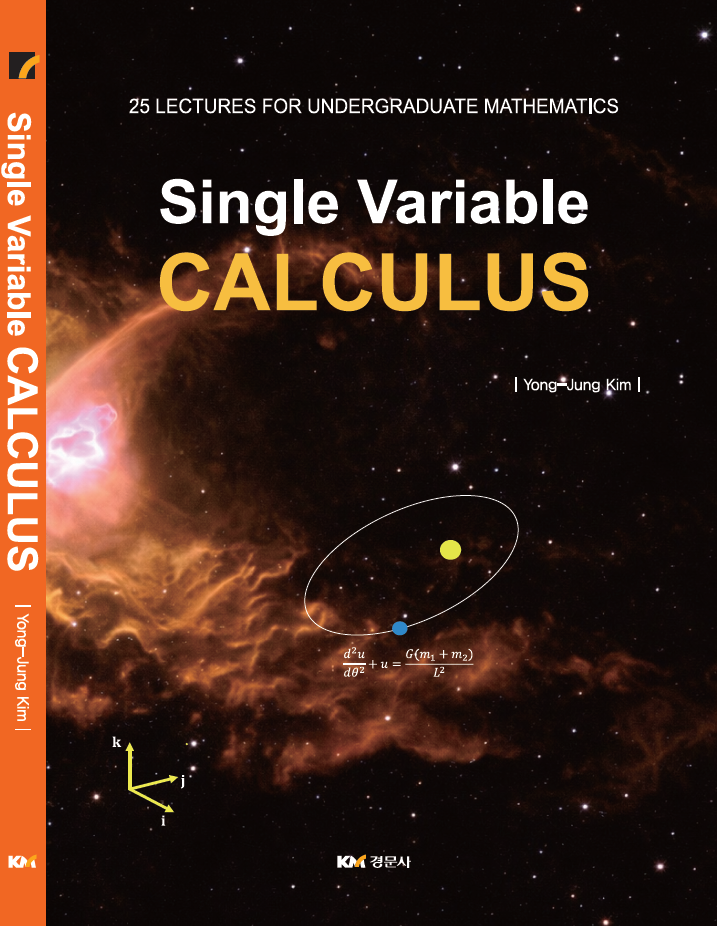
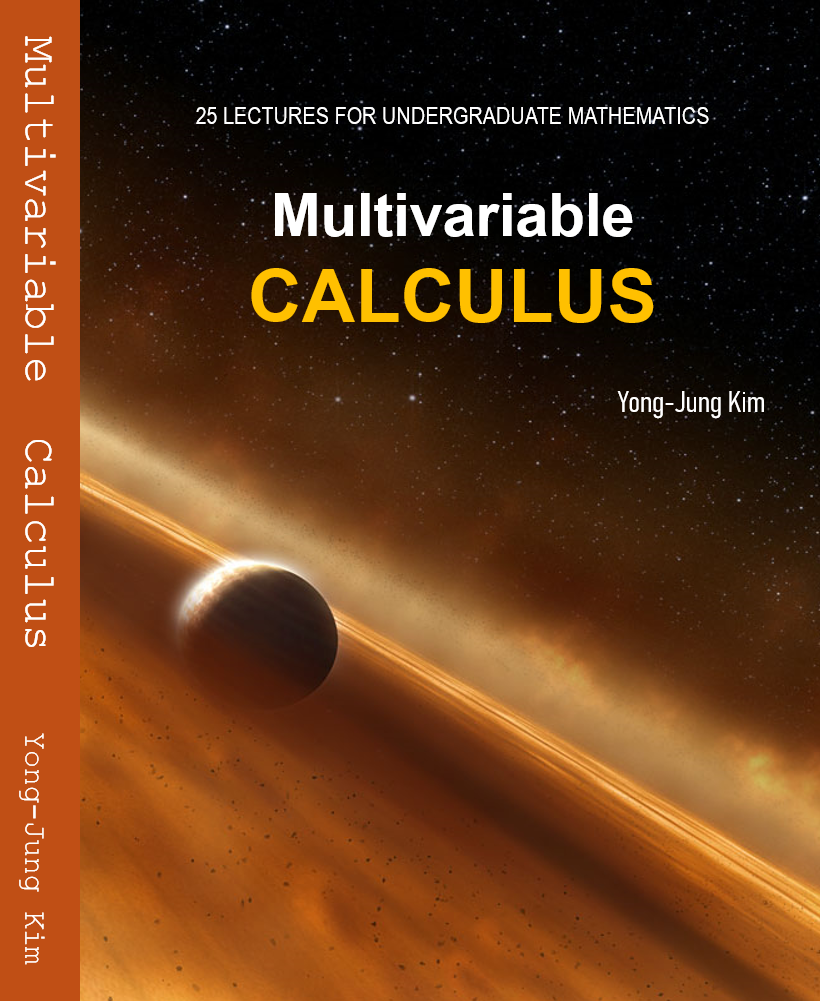
Add files via upload

diff --git a/mathematics/math002.html b/mathematics/math002.html
@@ -212,16 +212,16 @@ html, body {
   <!-- 상단 -->
   <section class="book-top">
     <div class="cover-panel">
-      <img src="math001.png" alt="Single Variable Calculus 표지">
+      <img src="math002.png" alt="Single Variable Calculus 표지">
     </div>
 
     <div class="book-info">
-      <h1>Single Variable Calculus</h1>
+      <h1>Multivariable Calculus</h1>
 
       <div class="info-grid">
         <div class="info-card">
           <div class="label">Pages</div>
-          <div class="value">344 pages</div>
+          <div class="value"> pages</div>
         </div>
 
         <div class="info-card">
@@ -231,7 +231,7 @@ html, body {
 
         <div class="info-card">
           <div class="label">Publisher / ISBN</div>
-          <div class="value">경문사 / 979-11-6073-822-3</div>
+          <div class="value">경문사 /  </div>
         </div>
 
         <div class="info-card">
@@ -253,7 +253,7 @@ html, body {
       <div class="button-row">
         <a class="btn" href="https://product.kyobobook.co.kr/detail/S000219311363" target="_blank">교보문고</a>
         <a class="btn" href="https://www.kyungmoon.com/shop/item.php?it_id=1771822190" target="_blank">경문사</a>
-        <a class="btn outline" href="math001.pdf" target="_blank">샘플 PDF</a>       	
+        <a class="btn outline" href="math002.pdf" target="_blank">샘플 PDF</a>       	
         <a class="btn" href="index.html" target="_parent">Math Series</a>
       </div>
     </div>
@@ -264,10 +264,8 @@ html, body {
     <div class="section">
       <h2>간단한 소개</h2>
       <p>
-        이 책은 두 학기에 걸쳐 진행되는 미적분학 과목의 첫 학기 교재이다.
-        함수의 극한, 미분, 적분 등 기본 개념을 설명하고,
-        벡터값 함수와 극좌표계, 매개변수 표현을 포함한다.
-        후반부에서는 수열과 급수를 이용한 함수의 근사와 무한급수를 다룬다.
+        이 책은 두 학기에 걸쳐 진행되는 미적분학 과목의 두번째 학기 교재이다.
+        다변수 함수의 미분과 적분, 변수 변환을 행렬을 사용해 정의하고 계산한다. 그 후 선적분과 면적분 개념을 이용해 Gauss 정리와 Stokes 정리를 얻고, 마지막 종착점은 Maxwell 방정식이다. Maxwell 방정식에서 어떻게 상대성이론이 탄생하는지를 살펴보면서 미적분학 교육과정이 끝난다.
       </p>
     </div>
 
@@ -277,7 +275,7 @@ html, body {
         <p>
 미적분학은 수학이다. 그러나 그 본질은 수학에 있지 않고 과학에 있다. 미적분학은 과학을 다루는 언어이며, 그 언어는 여러 가지 수학적 개념으로 이루어져 있고, 그 개념들은 과학적 현상을 분석하기 위해 만들어졌다. 이것이 미적분학이 이공계 학생들에게 졸업에 필요한 필수 과목인 이유이며, 경제학을 포함한 많은 인문계열 학생들에게도 꼭 필요한 필수 과목인 이유이다. 따라서 미적분학 교육의 핵심은 그 개념을 이해하고, 그 개념을 사용하며, 그 개념으로 각자의 문제를 분석하는 능력을 기르는 데 있다.
 </p><p>
-미적분학 1(Single Variable Calculus)에서는 일변수 함수를 다룬다. 어떤 사람들에게는 이 미적분학 책에 과학적 내용이 많아서 당혹스러울 수도 있을 것이다. 그러나 미적분학이 과학의 언어라면, 과학이 없는 미적분학에서 무엇을 배울 것인가? 뉴턴이 케플러 법칙을 수학적으로 설명하기 위하여 만든 도구가 미적분학의 시작이 되었고, 그것이 이 책 전반부의 핵심 주제이다. 극한, 미분, 적분, 관성 좌표계, 극좌표계, 변수 변환, 미분 방정식은 이 과학적 목표를 달성하기 위한 수학적 요소들이다. 미적분학은 뉴턴 이후에도 많은 발전을 이루어 왔다. 이 책의 후반부에서는 미분과 적분의 기법을 학습한 후, 수열과 급수를 이용한 근사 방법을 다룬다. 특히 공학에서 널리 사용되는 근사 기법의 기초가 되는 Taylor 급수와 다항식 근사를 학습한다.
+미적분학 2(Multivariable Calculus)는 다변수 함수를 다룬다. 다변수 함수는 고등학교 미적분학과 대학 미적분학을 구분 짓는 중요한 차별점이다. 다변수 함수의 미분과 적분, 변수 변환을 행렬을 사용해 정의하고 계산한다. 그 후 선적분과 면적분 개념을 이용해 Gauss 정리와 Stokes 정리를 얻고, 마지막 종착점은 Maxwell 방정식이다. Maxwell 방정식에서 어떻게 상대성이론이 탄생하는지를 살펴보면서 미적분학 교육과정이 끝난다.
 </p><p>
 언어는 소통의 수단인 동시에 사고의 수단이다. 인간이 깊이 있는 생각을 할 수 있는 것은 언어가 있기 때문이다. 미적분학은 과학을 깊이 있게 생각하는 데 쓰이는 언어이다. 그러나 외국어 단어를 많이 알고 있다고 해도 정작 그 언어로 말을 하나도 못 할 수도 있듯이, 미적분 개념도 충분한 연습을 통하지 않고서는 사고의 수단으로 사용할 수 없다. 책의 설명을 이해하려는 노력도 좋은 연습이지만, 스스로 익힌 개념으로 질문하고 답하려는 과정은 더 좋은 연습이 된다. 이 책에서는 학생들이 주도적으로 생각할 수 있도록 적절한 질문을 제시하려고 노력하였다. 때로는 구체적인 설명보다 힌트와 동기를 부여하는 질문이 더 효과적일 수 있기 때문이다.
 </p><p>

diff --git a/mathematics/index.html b/mathematics/index.html
@@ -183,15 +183,15 @@
         <a href="../index.html"><img src="../assets/images/dotcomlogo.png" alt="25 Lectures 로고"></a>
       </div>
       <nav class="nav">
-        <a href="../about/index.html">소개</a>
+        <a href="../underconstruction.html">소개</a>
         <a href="../mathematics/index.html">대학수학</a>
-        <a href="../statistics/index.html">대학통계</a>
-        <a href="../physics/index.html">대학물리</a>
-        <a href="../biology/index.html">대학생물</a>
-        <a href="../chemistry/index.html">대학화학</a>
-        <a href="../materials/index.html">강의자료</a>
-        <a href="../videos/index.html">강의영상</a>
-        <a href="../publish/index.html">출판하기</a>
+        <a href="../underconstruction.html">대학통계</a>
+        <a href="../underconstruction.html">대학물리</a>
+        <a href="../underconstruction.html">대학생물</a>
+        <a href="../underconstruction.html">대학화학</a>
+        <a href="../underconstruction.html">강의자료</a>
+        <a href="../underconstruction.html">강의영상</a>
+        <a href="../underconstruction.html">출판하기</a>
       </nav>
     </div>
   </header>
@@ -208,7 +208,7 @@
             <div class="title">#1. Single Variable Calculus</div>
           </button>
 
-          <button class="book-item" data-file="../underconstruction.html">
+          <button class="book-item" data-file="math002.html">
             <div class="title">#2. Multivariable Calculus</div>
           </button>
         </div>
@@ -217,7 +217,7 @@
       <div class="sidebar-section">
         <div class="sidebar-section-title">출판 예정 교재</div>
         <div class="book-list">
-        
+
           <button class="book-item" data-file="../underconstruction.html">
             <div class="title">#3. AI and Mathematical Modeling</div>
           </button>
@@ -230,8 +230,8 @@
             <div class="title">#5. Introduction to ODE</div>
             <div class="meta">출판됨 · 경문사</div>
           </button>
-          
-    
+
+
         </div>
       </div>
     </aside>
